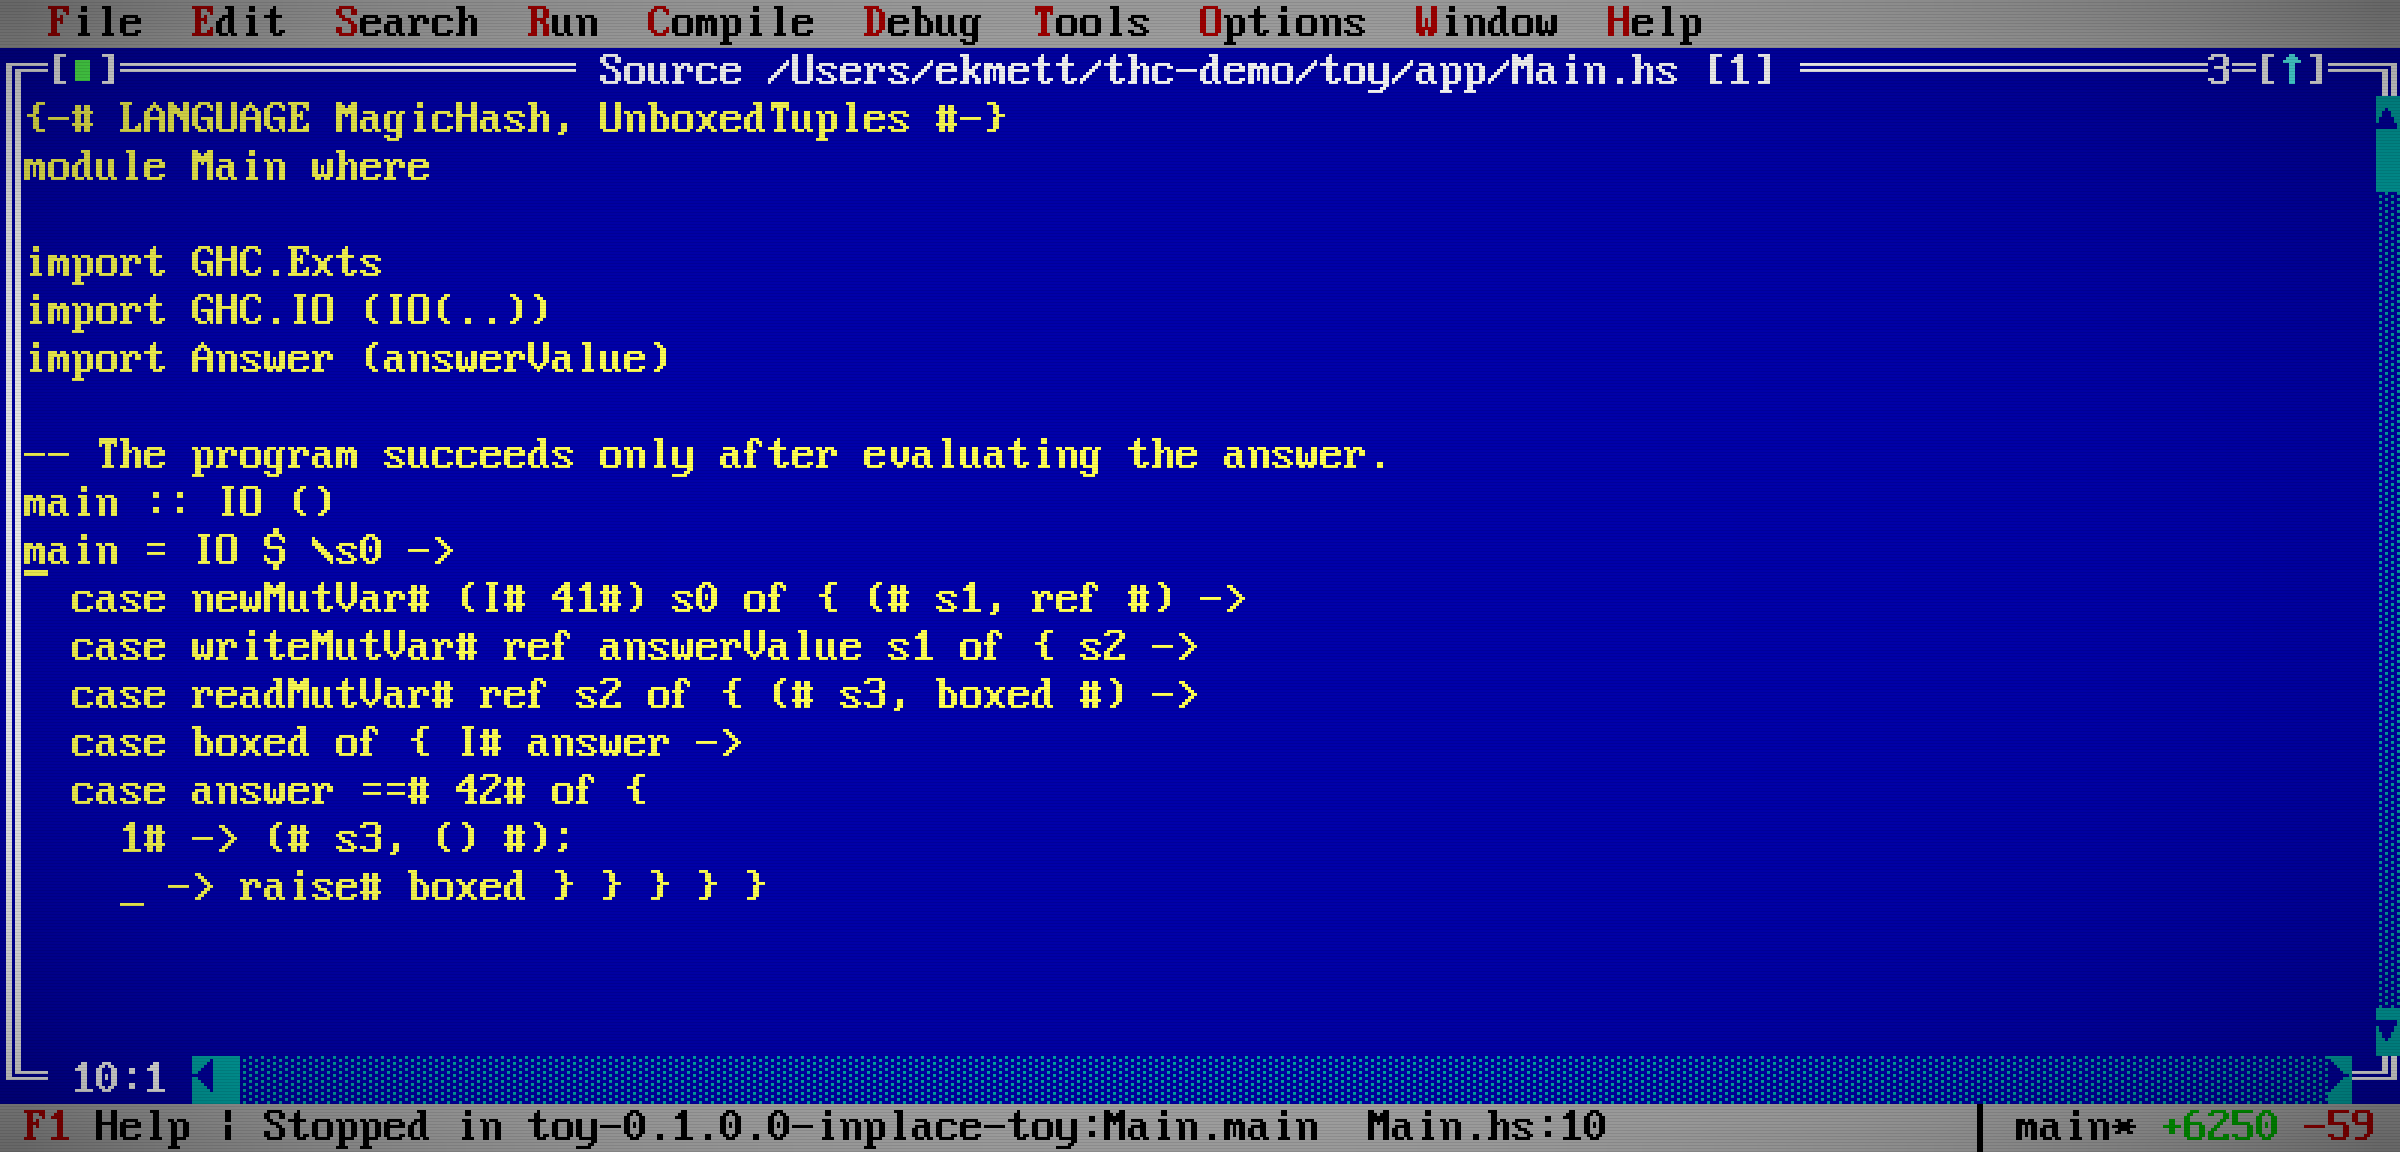
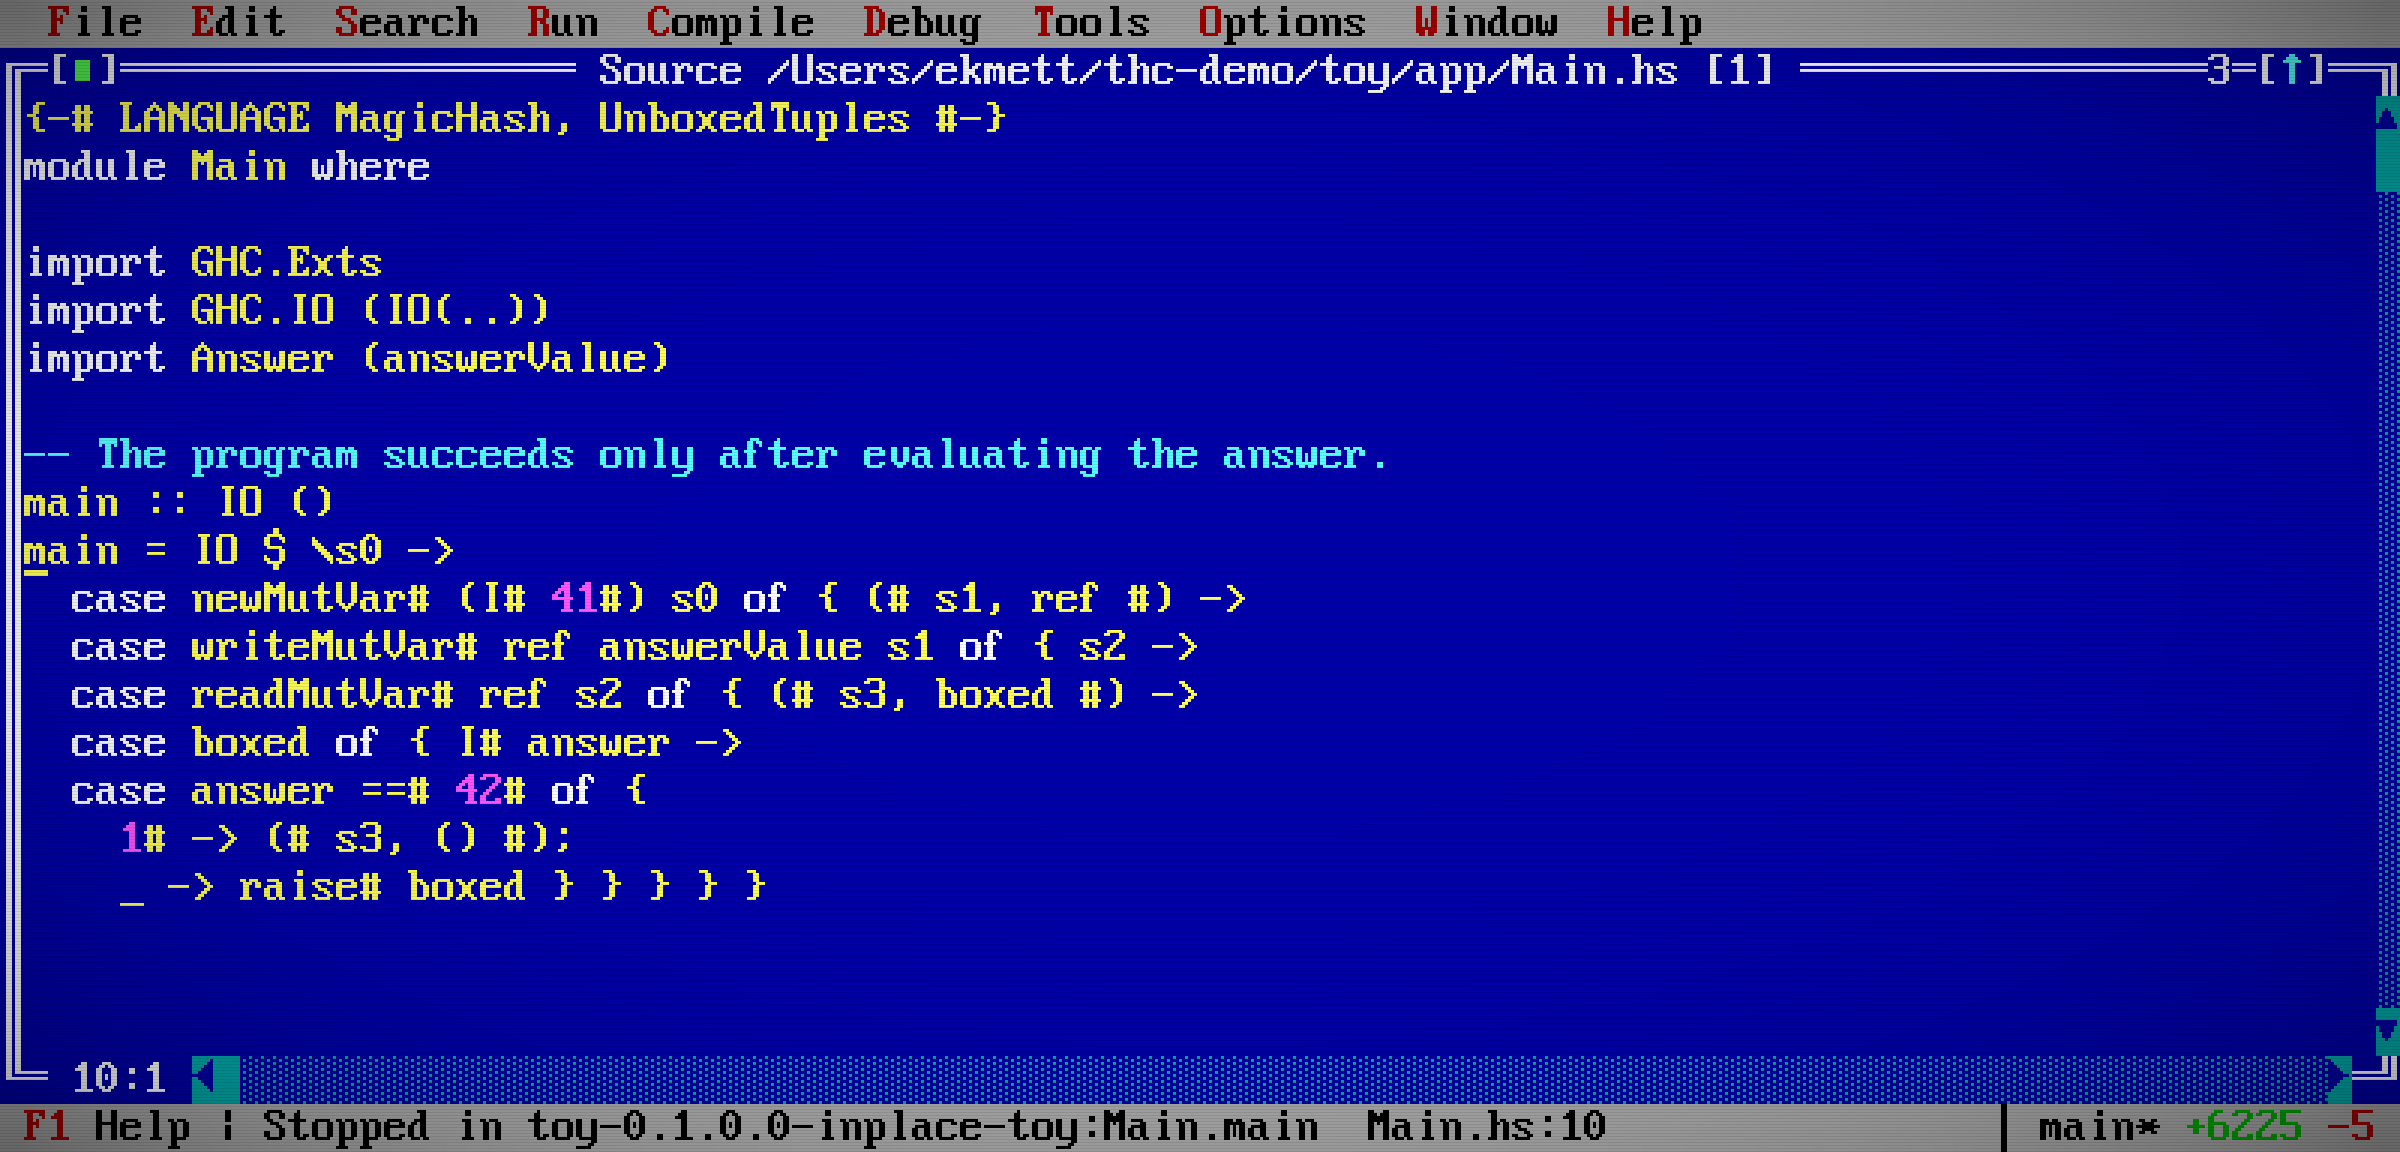
Preserve debugger source colors and add live lifecycle qualification

diff --git a/docs/contributing.md b/docs/contributing.md
@@ -147,6 +147,46 @@ The source also includes native-input, terminal, DAP, browser and remote-session
 harnesses under `test/` and `tools/`. Their setup depends on the component under
 test; consult the harness before running it against a live session.
 
+## Live debugger checks
+
+`test/DebuggerLive.hs` drives the real editor debugger through the shared
+`EditorDriver`, using both normal commands and MCP operations. Compile it after
+building the library:
+
+```sh
+cabal exec -- ghc -Wall -threaded -XGHC2021 -package thc-edit -itools test/DebuggerLive.hs -outputdir build/debugger-live -o build/debugger-live/check
+build/debugger-live/check launch 4734 /absolute/path/to/toy 10 > build/debugger-live/trace.jsonl
+```
+
+Use a disposable, terminating THC Cabal executable with debug source notes. The
+last argument selects a breakpoint line in the entry source which execution
+will encounter after the initial stop (10 is only an example).
+The program must have work after that breakpoint for a trace-in stop; the
+qualification toy uses nested primitive mutable-variable operations. Choose an
+unused port. Launch uses the normal saved **Build target** settings, so select
+THC first and provide its compiler, runtime and LLVM tools on `PATH`. To keep
+personal settings out of a run, set `XDG_CONFIG_HOME` to a fresh scratch directory;
+THC is the default toolchain. Builds still write into the selected project.
+
+The check verifies embedded-source retrieval, a verified breakpoint at the
+requested line, a fresh stop on that breakpoint, trace-in/step-over, and
+termination. It also exercises step-out when step-over leaves the toy stopped.
+It rejects stale suspension generations and saves state/output as JSON lines.
+Step-over or step-out may legitimately terminate an optimized toy; the trace
+records which controls were exercised. Otherwise the check continues it. It
+fails if the program exits before the breakpoint hit or initial trace-in stop.
+Each wait is bounded, and failure closes the owned debugger process.
+
+Use `attach PORT PROJECT BREAKPOINT_LINE` instead of `launch` to qualify an
+already-suspended local runtime. That process belongs to the caller: record its exit status and
+clean it up if the test fails. A successful DAP termination check does not prove
+its operating-system exit status. Run separate instances for each THC backend;
+this check does not establish locals inspection, interactive stdin, exception
+stops or another adapter's compatibility.
+
+The source-linked [GHC debugging assessment](design/ghc-debugging-options.md)
+covers candidate adapters, GHCi facilities and separate profiling/heap workflows.
+
 ## Finding your way around
 
 | Location | Responsibility |
